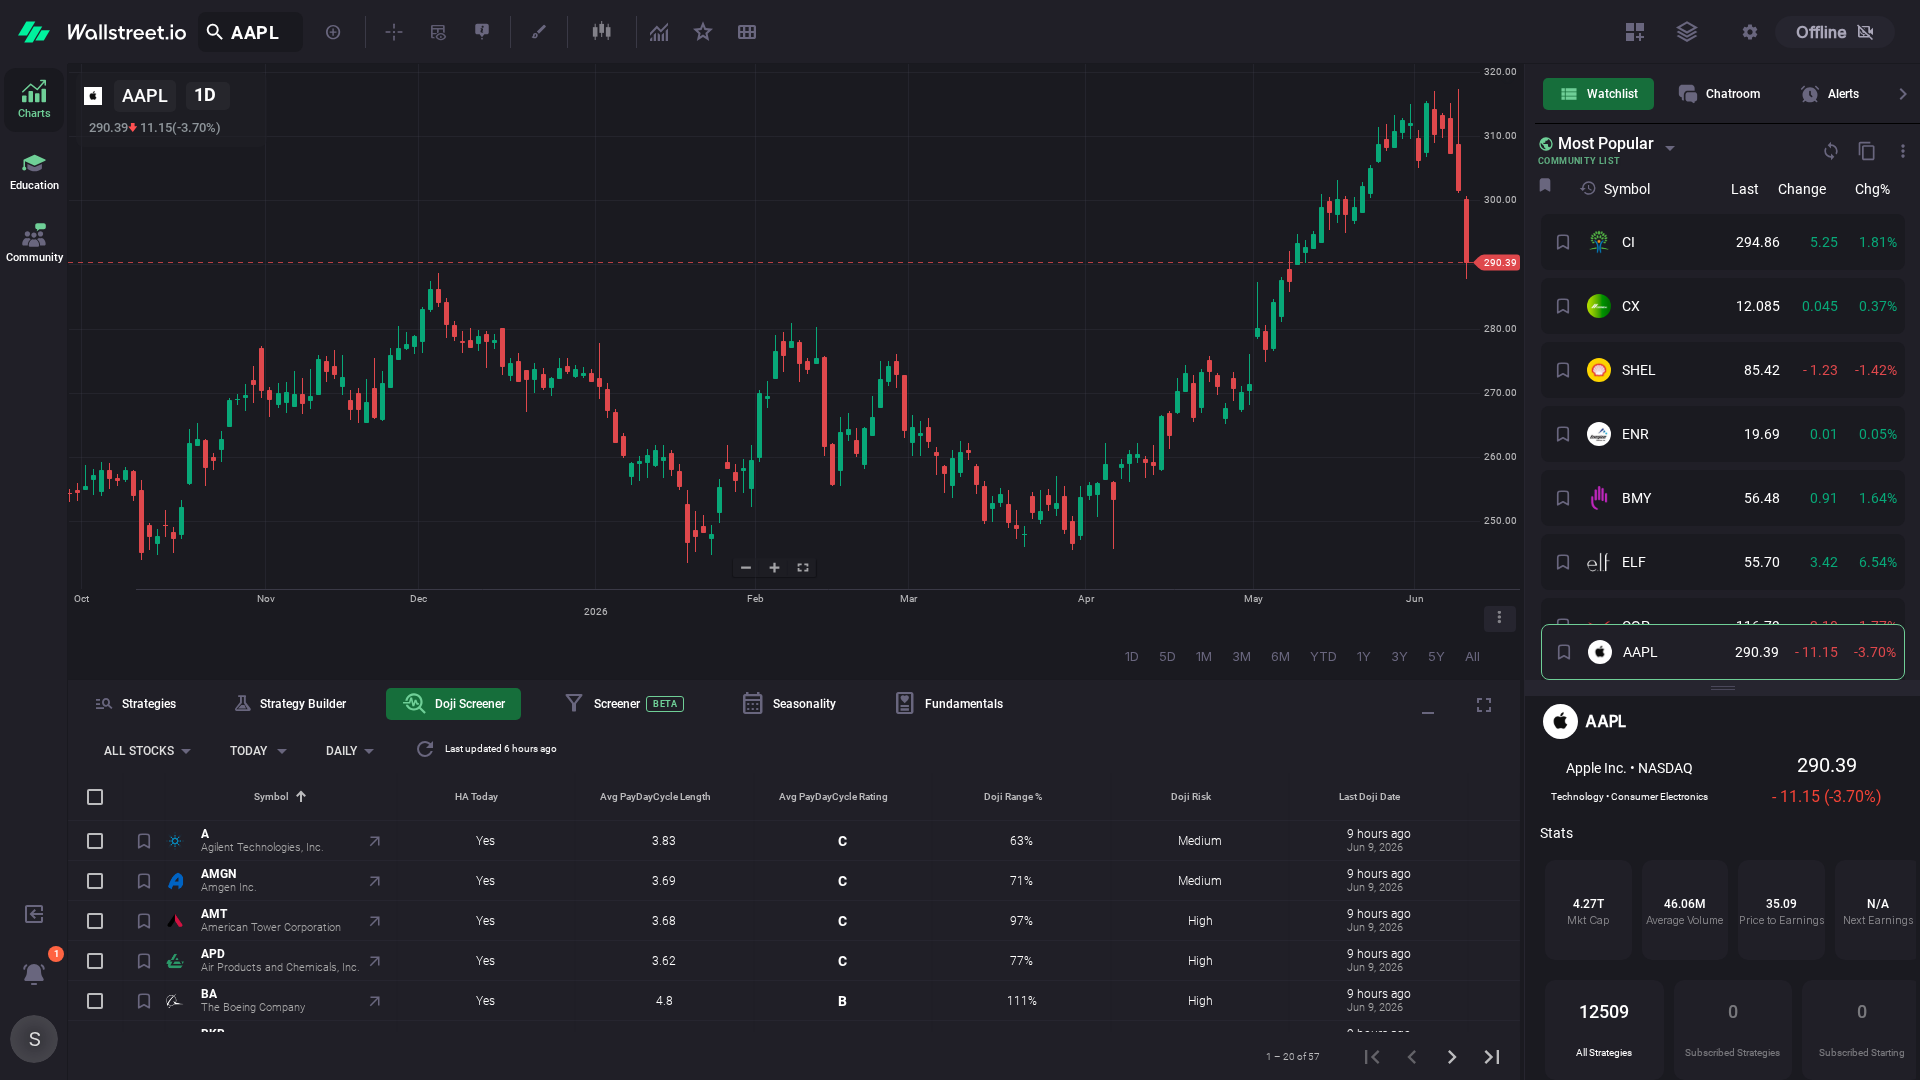
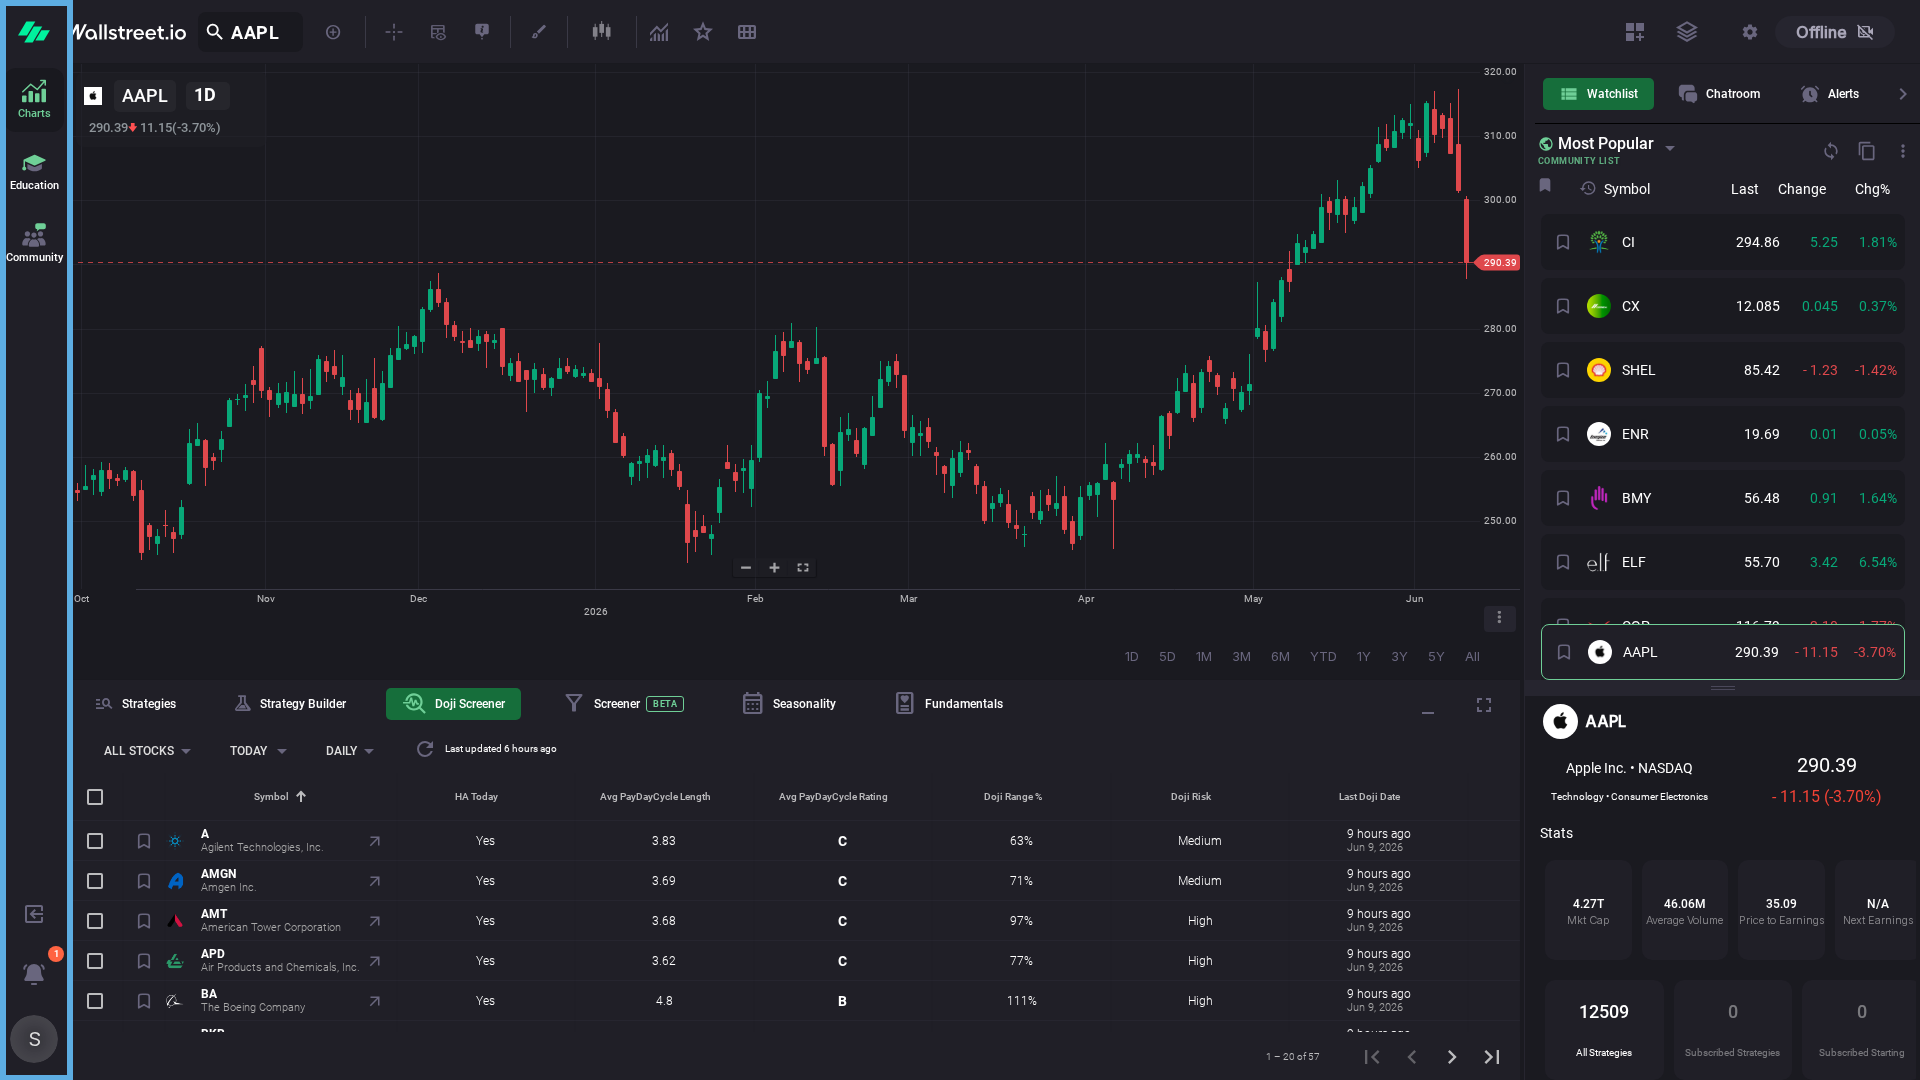
Add bounding box for app and account.

Changed region(s): [[0.0, 0.9778, 0.0625, 1.0], [0.0, 0.0, 0.0625, 0.0306]]

diff --git a/scripts/screenshot.py b/scripts/screenshot.py
@@ -10,6 +10,7 @@ import click
 from dotenv import dotenv_values
 from frozendict import frozendict
 from loguru import logger
+from PIL import Image, ImageDraw
 from playwright.async_api import async_playwright
 from playwright.sync_api import sync_playwright
 
@@ -25,6 +26,8 @@ class Config:
         "<cyan>{name}</cyan>:<cyan>{function}</cyan>:<cyan>{line}</cyan> - <level>{message}</level>"
     )
     VIEWPORT: frozendict = frozendict(width=1920, height=1080)
+    MARKUP_COLOR: str = "#5DADE2"
+    MARKUP_WIDTH: int = 6
 
 
 config_vars = dotenv_values(".env")
@@ -33,7 +36,7 @@ logger.remove()
 logger.add(sys.stderr, level=config.LOG_LEVEL, format=config.LOG_FORMAT)
 
 
-class Image(Enum):
+class Shot(Enum):
     APP_ACCOUNT_BAR = "app-account-bar.png"
     CHARTS_APP = "charts-app.png"
     EDUCATION_APP = "education-app.png"
@@ -160,9 +163,9 @@ async def screenshot_charts():
         # if visible_option == False:
         #     page.get_by_role("button", name="Doji Screener").click()
         #     page.get_by_role("button", name="DAILY").wait_for(state="visible")
-        await page.screenshot(path=FRESH / Image.CHARTS_APP.value)
+        await page.screenshot(path=FRESH / Shot.CHARTS_APP.value)
         logger.info("charts screenshot complete")
-        await page.screenshot(path=FRESH / Image.APP_ACCOUNT_BAR.value)
+        await page.screenshot(path=FRESH / Shot.APP_ACCOUNT_BAR.value)
         logger.info("app and account bar screenshot complete")
 
 
@@ -177,7 +180,7 @@ async def screenshot_education():
         await page.goto(Url.EDUCATION.value, wait_until="networkidle")
         # Ensure everything is generally loaded.
         await page.get_by_text("play_lesson Getting Started").wait_for(state="visible")
-        await page.screenshot(path=FRESH / Image.EDUCATION_APP.value)
+        await page.screenshot(path=FRESH / Shot.EDUCATION_APP.value)
         logger.info("education screenshot complete")
 
 
@@ -190,7 +193,7 @@ async def screenshot_community():
         page = await context.new_page()
         logger.info("New browser launched for community screenshot")
         await page.goto(Url.COMMUNITY.value, wait_until="networkidle")
-        await page.screenshot(path=FRESH / Image.COMMUNITY_APP.value)
+        await page.screenshot(path=FRESH / Shot.COMMUNITY_APP.value)
         logger.info("community screenshot complete")
 
 
@@ -209,30 +212,38 @@ def take_all():
 
 
 def markup_app_account_bar():
-    """Copy charts app screenshot to complete directory."""
-    source = FRESH / Image.APP_ACCOUNT_BAR.value
-    dest = COMPLETE / Image.APP_ACCOUNT_BAR.value
-    shutil.copy2(source, dest)
+    """Markup and save charts app screenshot to complete directory."""
+
+    # Load the image
+    img = Image.open(FRESH / Shot.APP_ACCOUNT_BAR.value)
+    draw = ImageDraw.Draw(img)
+
+    # Draw a soft blue box around the left app bar
+    draw.rectangle(
+        [0, 0, int(img.width * 0.038), img.height], outline="#5DADE2", width=6
+    )
+
+    img.save(COMPLETE / Shot.APP_ACCOUNT_BAR.value)
 
 
 def markup_charts():
     """Copy charts app screenshot to complete directory."""
-    source = FRESH / Image.CHARTS_APP.value
-    dest = COMPLETE / Image.CHARTS_APP.value
+    source = FRESH / Shot.CHARTS_APP.value
+    dest = COMPLETE / Shot.CHARTS_APP.value
     shutil.copy2(source, dest)
 
 
 def markup_education():
     """Copy education app screenshot to complete directory."""
-    source = FRESH / Image.EDUCATION_APP.value
-    dest = COMPLETE / Image.EDUCATION_APP.value
+    source = FRESH / Shot.EDUCATION_APP.value
+    dest = COMPLETE / Shot.EDUCATION_APP.value
     shutil.copy2(source, dest)
 
 
 def markup_community():
     """Copy community app screenshot to complete directory."""
-    source = FRESH / Image.COMMUNITY_APP.value
-    dest = COMPLETE / Image.COMMUNITY_APP.value
+    source = FRESH / Shot.COMMUNITY_APP.value
+    dest = COMPLETE / Shot.COMMUNITY_APP.value
     shutil.copy2(source, dest)
 
 
@@ -246,29 +257,29 @@ def markup_all():
 
 def move_app_account_bar():
     """Copy charts app screenshot to screenshots directory."""
-    source = COMPLETE / Image.APP_ACCOUNT_BAR.value
-    dest = SCREENSHOTS / Image.APP_ACCOUNT_BAR.value
+    source = COMPLETE / Shot.APP_ACCOUNT_BAR.value
+    dest = SCREENSHOTS / Shot.APP_ACCOUNT_BAR.value
     shutil.copy2(source, dest)
 
 
 def move_charts():
     """Copy charts app screenshot to screenshots directory."""
-    source = COMPLETE / Image.CHARTS_APP.value
-    dest = SCREENSHOTS / Image.CHARTS_APP.value
+    source = COMPLETE / Shot.CHARTS_APP.value
+    dest = SCREENSHOTS / Shot.CHARTS_APP.value
     shutil.copy2(source, dest)
 
 
 def move_education():
     """Copy education app screenshot to screenshots directory."""
-    source = COMPLETE / Image.EDUCATION_APP.value
-    dest = SCREENSHOTS / Image.EDUCATION_APP.value
+    source = COMPLETE / Shot.EDUCATION_APP.value
+    dest = SCREENSHOTS / Shot.EDUCATION_APP.value
     shutil.copy2(source, dest)
 
 
 def move_community():
     """Copy community app screenshot to screenshots directory."""
-    source = COMPLETE / Image.COMMUNITY_APP.value
-    dest = SCREENSHOTS / Image.COMMUNITY_APP.value
+    source = COMPLETE / Shot.COMMUNITY_APP.value
+    dest = SCREENSHOTS / Shot.COMMUNITY_APP.value
     shutil.copy2(source, dest)
 
 